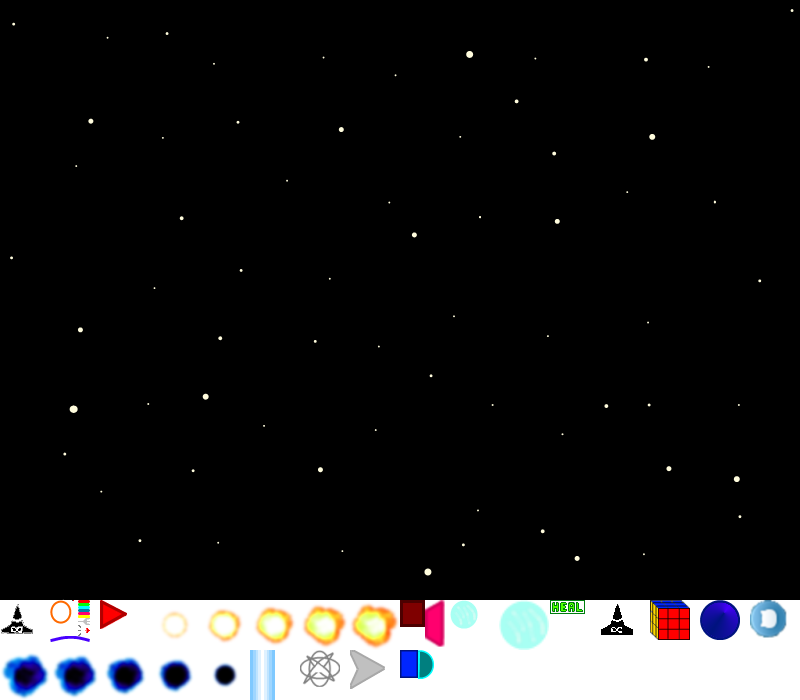
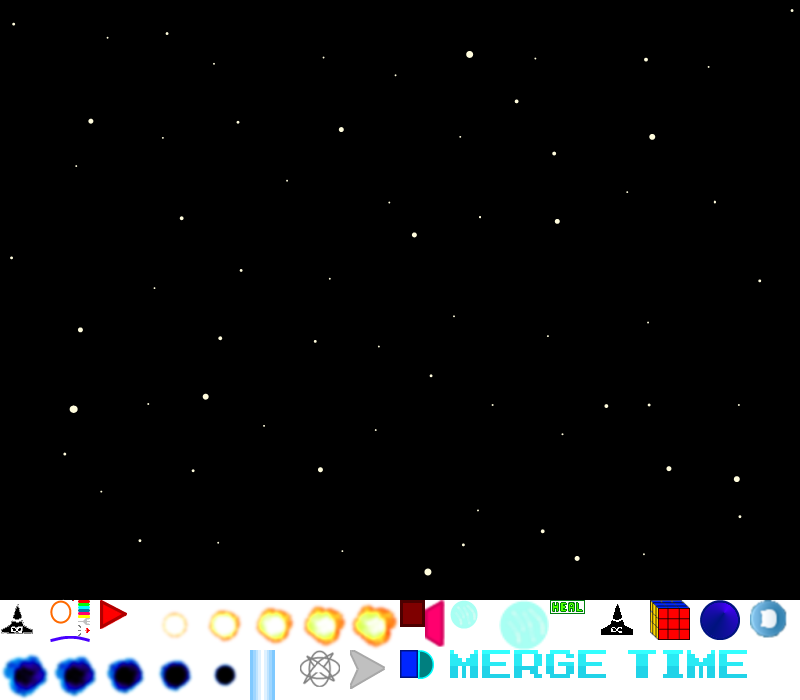
"Merge Time" msg on bigboss
right now it spawns anytime, but later we'll need to call it only when
the last wave is created.

Changed region(s): [[0.5625, 0.93, 0.75, 0.99], [0.7812, 0.93, 0.9375, 0.99]]

diff --git a/public/js/game.js b/public/js/game.js
@@ -53,7 +53,8 @@ Crafty.sprite(50, "assets/back.png", {
     normalboss: [6, 13],
     bigboss: [15,12],
     bosshealthbarbg: [1,12],
-    bosshealthbarfill: [1, 12]
+    bosshealthbarfill: [1, 12],
+    mergemsg: [9, 13, 6, 1]
     });
 
 // Called when an enemy is hit by a pewpewlazors
@@ -100,6 +101,7 @@ function startGame() {
 
     nc.bind("branch", function(player, path) {
         if (me) {
+            mergeWaveStarted();
             for (var e in enemies) {
                 enemies[e].destroy();
                 delete enemies[e];
@@ -258,6 +260,11 @@ function forcePlayerPosition(playerID, xPos, yPos, tweenTime) {
     players[playerID].tween({x:xPos, y:yPos}, tweenTime);
 }
 
+function mergeWaveStarted() {
+    Crafty.e("CentralMessage, mergemsg")
+        .center();
+}
+
 // Spawns the specified enemy, at the specified starting x and y position with the specified path type to follow.
 function spawnEnemy(enemyType, startX, startY, id, health, pathType, gunType, speedModificator, dTStart) {
     console.log(health);
@@ -279,7 +286,6 @@ function spawnEnemy(enemyType, startX, startY, id, health, pathType, gunType, sp
             enemy.framesSinceHpPushed = 0;
             enemy.hpchanged = false;
             nc.health('enemy', enemy.id, enemy.health);
-            console.log("SEND");
         }
         ++enemy.framesSinceHpPushed;
     });

diff --git a/public/js/game_entities.js b/public/js/game_entities.js
@@ -464,3 +464,19 @@ Crafty.c("BossHealthBar", {
     });
   }
 });
+
+Crafty.c("CentralMessage", {
+  init: function() {
+    this.requires("2D, Canvas, FadeOut")
+      .attr({z:10000});
+    this.timeout(this.startFade, 1500);
+  },
+  center: function() {
+    var b = this.mbr();
+    this.x = SCREEN_W/2 - b._w/2;
+    this.y = SCREEN_H/2 - b._h/2;
+  },
+  startFade: function() {
+    this.fadeOut(0.05);
+  }
+});
